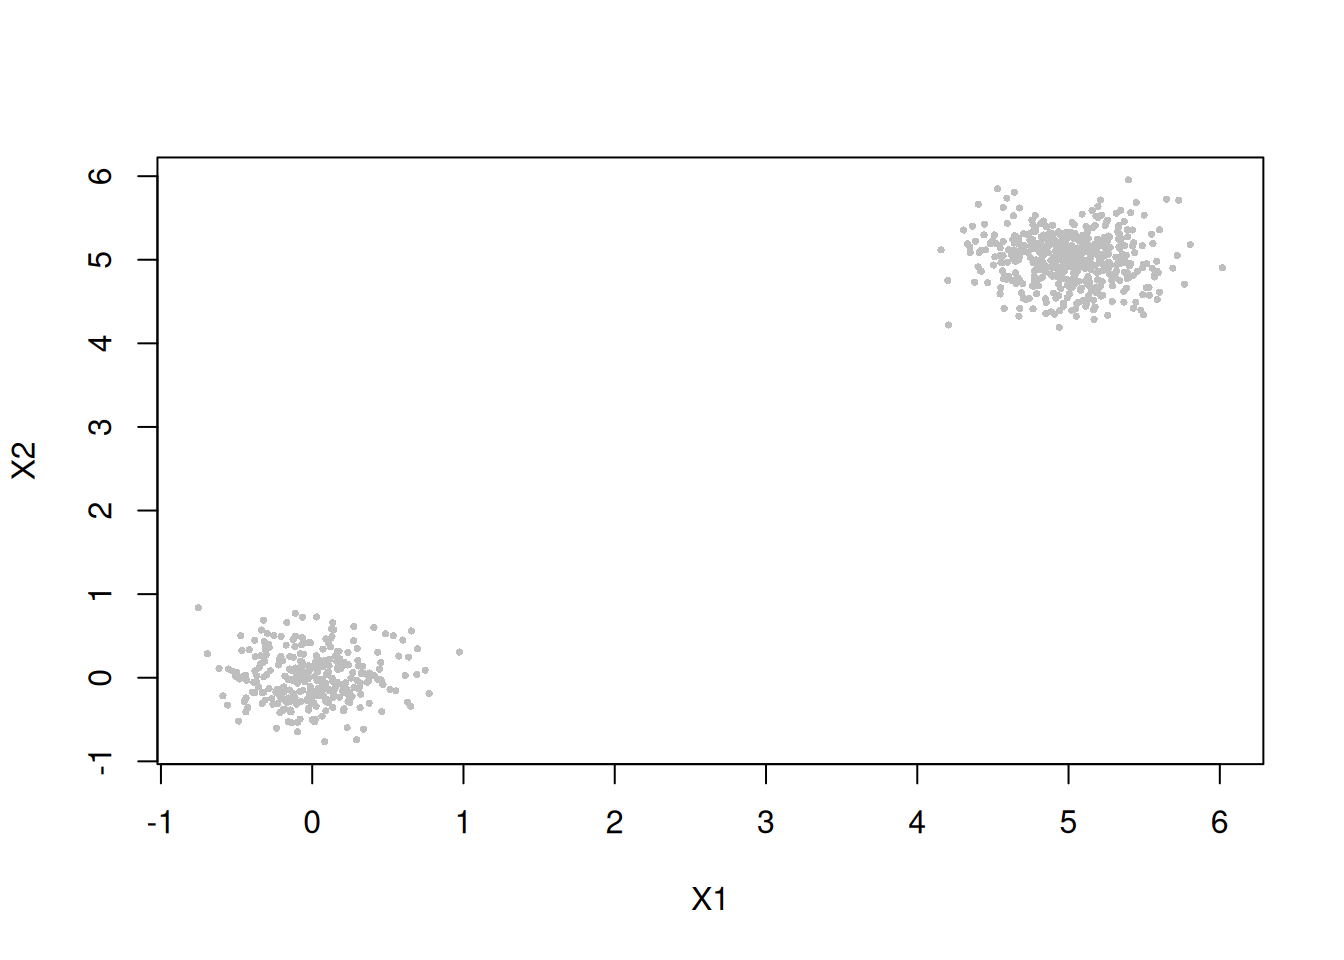
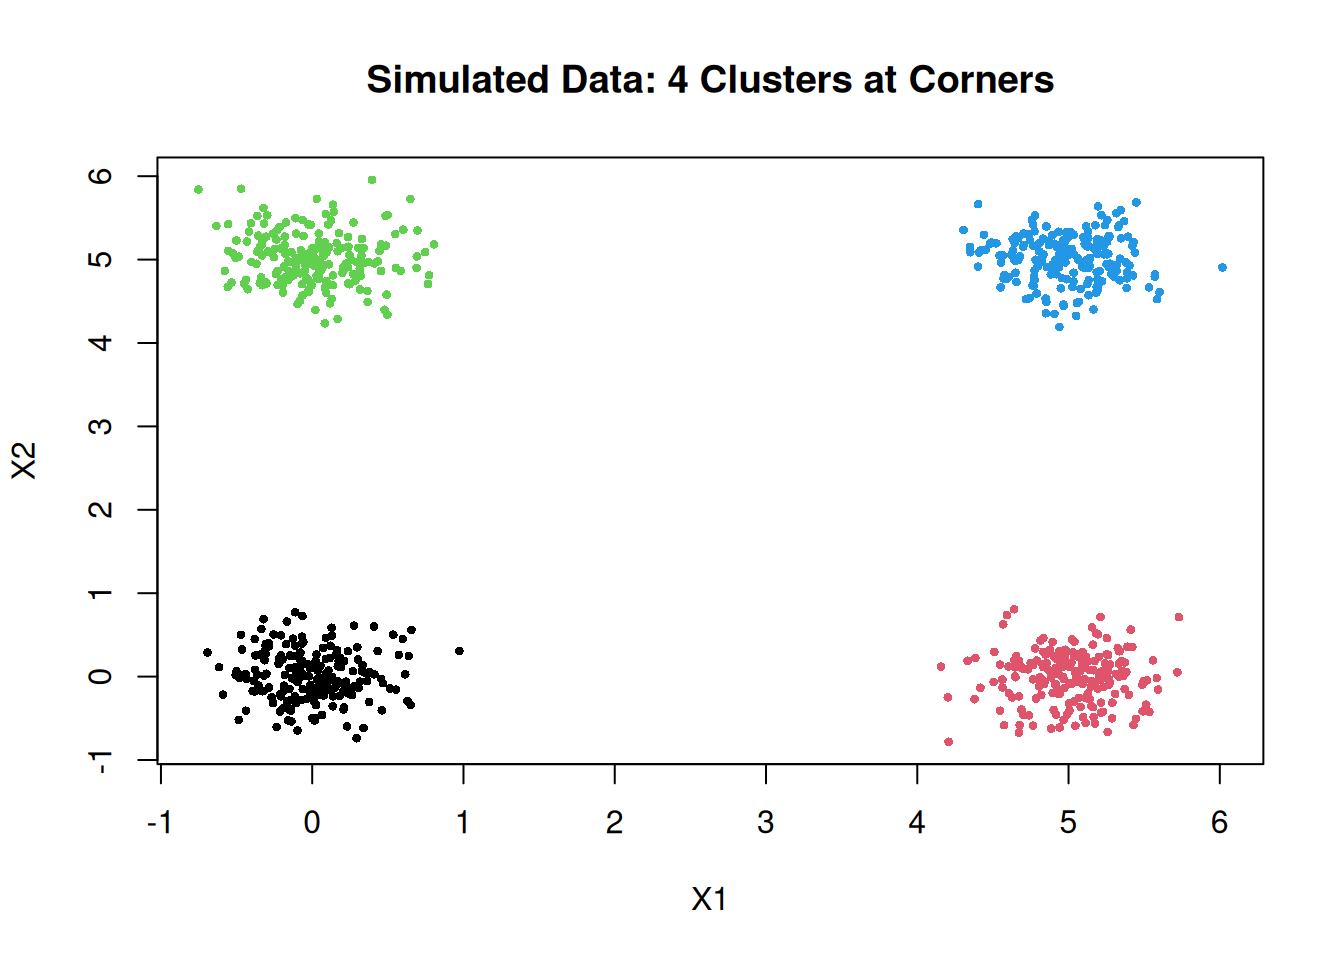
deploy: 8647bd23811dd8675cb206d4ff6f3b1f6faa8fa9

diff --git a/posts/kmeans-permutation/index.html b/posts/kmeans-permutation/index.html
@@ -358,16 +358,41 @@ p_K = \Pr\left( \Delta W_K^{\text{perm}} \geq \Delta W_K^{\text{real}} \right)
 <p><strong>Simulation Example</strong>: Suppose I have 4 clusters in 2D, well separated.</p>
 <div class="cell">
 <div class="sourceCode cell-code" id="cb2"><pre class="sourceCode r code-with-copy"><code class="sourceCode r"><span id="cb2-1"><a href="#cb2-1" aria-hidden="true" tabindex="-1"></a><span class="fu">set.seed</span>(<span class="dv">123</span>)</span>
-<span id="cb2-2"><a href="#cb2-2" aria-hidden="true" tabindex="-1"></a>n <span class="ot">&lt;-</span> <span class="dv">200</span></span>
-<span id="cb2-3"><a href="#cb2-3" aria-hidden="true" tabindex="-1"></a>data.sim <span class="ot">&lt;-</span> <span class="fu">rbind</span>(</span>
-<span id="cb2-4"><a href="#cb2-4" aria-hidden="true" tabindex="-1"></a>  <span class="fu">matrix</span>(<span class="fu">rnorm</span>(n<span class="sc">*</span><span class="dv">2</span>, <span class="at">mean=</span><span class="dv">0</span>, <span class="at">sd=</span><span class="fl">0.3</span>), <span class="at">ncol=</span><span class="dv">2</span>),</span>
-<span id="cb2-5"><a href="#cb2-5" aria-hidden="true" tabindex="-1"></a>  <span class="fu">matrix</span>(<span class="fu">rnorm</span>(n<span class="sc">*</span><span class="dv">2</span>, <span class="at">mean=</span><span class="dv">5</span>, <span class="at">sd=</span><span class="fl">0.3</span>), <span class="at">ncol=</span><span class="dv">2</span>),</span>
-<span id="cb2-6"><a href="#cb2-6" aria-hidden="true" tabindex="-1"></a>  <span class="fu">matrix</span>(<span class="fu">rnorm</span>(n<span class="sc">*</span><span class="dv">2</span>, <span class="at">mean=</span><span class="fu">c</span>(<span class="dv">0</span>,<span class="dv">5</span>), <span class="at">sd=</span><span class="fl">0.3</span>), <span class="at">ncol=</span><span class="dv">2</span>),</span>
-<span id="cb2-7"><a href="#cb2-7" aria-hidden="true" tabindex="-1"></a>  <span class="fu">matrix</span>(<span class="fu">rnorm</span>(n<span class="sc">*</span><span class="dv">2</span>, <span class="at">mean=</span><span class="fu">c</span>(<span class="dv">5</span>,<span class="dv">5</span>), <span class="at">sd=</span><span class="fl">0.3</span>), <span class="at">ncol=</span><span class="dv">2</span>)</span>
-<span id="cb2-8"><a href="#cb2-8" aria-hidden="true" tabindex="-1"></a>)</span>
-<span id="cb2-9"><a href="#cb2-9" aria-hidden="true" tabindex="-1"></a>data.sim <span class="ot">&lt;-</span> <span class="fu">as.data.frame</span>(data.sim)</span>
-<span id="cb2-10"><a href="#cb2-10" aria-hidden="true" tabindex="-1"></a><span class="fu">colnames</span>(data.sim) <span class="ot">&lt;-</span> <span class="fu">c</span>(<span class="st">"X1"</span>,<span class="st">"X2"</span>)</span>
-<span id="cb2-11"><a href="#cb2-11" aria-hidden="true" tabindex="-1"></a><span class="fu">plot</span>(data.sim, <span class="at">col=</span><span class="st">"grey"</span>, <span class="at">pch=</span><span class="dv">16</span>, <span class="at">cex=</span><span class="fl">0.5</span>)</span></code><button title="Copy to Clipboard" class="code-copy-button"><i class="bi"></i></button></pre></div>
+<span id="cb2-2"><a href="#cb2-2" aria-hidden="true" tabindex="-1"></a>n <span class="ot">&lt;-</span> <span class="dv">200</span>  <span class="co"># number of points per cluster</span></span>
+<span id="cb2-3"><a href="#cb2-3" aria-hidden="true" tabindex="-1"></a>sd <span class="ot">&lt;-</span> <span class="fl">0.3</span></span>
+<span id="cb2-4"><a href="#cb2-4" aria-hidden="true" tabindex="-1"></a></span>
+<span id="cb2-5"><a href="#cb2-5" aria-hidden="true" tabindex="-1"></a><span class="co"># Create each cluster with explicit X and Y components</span></span>
+<span id="cb2-6"><a href="#cb2-6" aria-hidden="true" tabindex="-1"></a>cluster1 <span class="ot">&lt;-</span> <span class="fu">data.frame</span>(</span>
+<span id="cb2-7"><a href="#cb2-7" aria-hidden="true" tabindex="-1"></a>  <span class="at">X1 =</span> <span class="fu">rnorm</span>(n, <span class="at">mean =</span> <span class="dv">0</span>, <span class="at">sd =</span> sd),</span>
+<span id="cb2-8"><a href="#cb2-8" aria-hidden="true" tabindex="-1"></a>  <span class="at">X2 =</span> <span class="fu">rnorm</span>(n, <span class="at">mean =</span> <span class="dv">0</span>, <span class="at">sd =</span> sd),</span>
+<span id="cb2-9"><a href="#cb2-9" aria-hidden="true" tabindex="-1"></a>  <span class="at">label =</span> <span class="dv">1</span></span>
+<span id="cb2-10"><a href="#cb2-10" aria-hidden="true" tabindex="-1"></a>)</span>
+<span id="cb2-11"><a href="#cb2-11" aria-hidden="true" tabindex="-1"></a>cluster2 <span class="ot">&lt;-</span> <span class="fu">data.frame</span>(</span>
+<span id="cb2-12"><a href="#cb2-12" aria-hidden="true" tabindex="-1"></a>  <span class="at">X1 =</span> <span class="fu">rnorm</span>(n, <span class="at">mean =</span> <span class="dv">5</span>, <span class="at">sd =</span> sd),</span>
+<span id="cb2-13"><a href="#cb2-13" aria-hidden="true" tabindex="-1"></a>  <span class="at">X2 =</span> <span class="fu">rnorm</span>(n, <span class="at">mean =</span> <span class="dv">0</span>, <span class="at">sd =</span> sd),</span>
+<span id="cb2-14"><a href="#cb2-14" aria-hidden="true" tabindex="-1"></a>  <span class="at">label =</span> <span class="dv">2</span></span>
+<span id="cb2-15"><a href="#cb2-15" aria-hidden="true" tabindex="-1"></a>)</span>
+<span id="cb2-16"><a href="#cb2-16" aria-hidden="true" tabindex="-1"></a>cluster3 <span class="ot">&lt;-</span> <span class="fu">data.frame</span>(</span>
+<span id="cb2-17"><a href="#cb2-17" aria-hidden="true" tabindex="-1"></a>  <span class="at">X1 =</span> <span class="fu">rnorm</span>(n, <span class="at">mean =</span> <span class="dv">0</span>, <span class="at">sd =</span> sd),</span>
+<span id="cb2-18"><a href="#cb2-18" aria-hidden="true" tabindex="-1"></a>  <span class="at">X2 =</span> <span class="fu">rnorm</span>(n, <span class="at">mean =</span> <span class="dv">5</span>, <span class="at">sd =</span> sd),</span>
+<span id="cb2-19"><a href="#cb2-19" aria-hidden="true" tabindex="-1"></a>  <span class="at">label =</span> <span class="dv">3</span></span>
+<span id="cb2-20"><a href="#cb2-20" aria-hidden="true" tabindex="-1"></a>)</span>
+<span id="cb2-21"><a href="#cb2-21" aria-hidden="true" tabindex="-1"></a>cluster4 <span class="ot">&lt;-</span> <span class="fu">data.frame</span>(</span>
+<span id="cb2-22"><a href="#cb2-22" aria-hidden="true" tabindex="-1"></a>  <span class="at">X1 =</span> <span class="fu">rnorm</span>(n, <span class="at">mean =</span> <span class="dv">5</span>, <span class="at">sd =</span> sd),</span>
+<span id="cb2-23"><a href="#cb2-23" aria-hidden="true" tabindex="-1"></a>  <span class="at">X2 =</span> <span class="fu">rnorm</span>(n, <span class="at">mean =</span> <span class="dv">5</span>, <span class="at">sd =</span> sd),</span>
+<span id="cb2-24"><a href="#cb2-24" aria-hidden="true" tabindex="-1"></a>  <span class="at">label =</span> <span class="dv">4</span></span>
+<span id="cb2-25"><a href="#cb2-25" aria-hidden="true" tabindex="-1"></a>)</span>
+<span id="cb2-26"><a href="#cb2-26" aria-hidden="true" tabindex="-1"></a></span>
+<span id="cb2-27"><a href="#cb2-27" aria-hidden="true" tabindex="-1"></a><span class="co"># Combine all clusters</span></span>
+<span id="cb2-28"><a href="#cb2-28" aria-hidden="true" tabindex="-1"></a>data.sim <span class="ot">&lt;-</span> <span class="fu">rbind</span>(cluster1, cluster2, cluster3, cluster4)</span>
+<span id="cb2-29"><a href="#cb2-29" aria-hidden="true" tabindex="-1"></a></span>
+<span id="cb2-30"><a href="#cb2-30" aria-hidden="true" tabindex="-1"></a><span class="co"># Plot with cluster labels</span></span>
+<span id="cb2-31"><a href="#cb2-31" aria-hidden="true" tabindex="-1"></a><span class="fu">plot</span>(</span>
+<span id="cb2-32"><a href="#cb2-32" aria-hidden="true" tabindex="-1"></a>  data.sim<span class="sc">$</span>X1, data.sim<span class="sc">$</span>X2, <span class="at">col =</span> data.sim<span class="sc">$</span>label,</span>
+<span id="cb2-33"><a href="#cb2-33" aria-hidden="true" tabindex="-1"></a>  <span class="at">pch =</span> <span class="dv">16</span>, <span class="at">cex =</span> <span class="fl">0.6</span>,</span>
+<span id="cb2-34"><a href="#cb2-34" aria-hidden="true" tabindex="-1"></a>  <span class="at">main =</span> <span class="st">"Simulated Data: 4 Clusters at Corners"</span>,</span>
+<span id="cb2-35"><a href="#cb2-35" aria-hidden="true" tabindex="-1"></a>  <span class="at">xlab =</span> <span class="st">"X1"</span>, <span class="at">ylab =</span> <span class="st">"X2"</span></span>
+<span id="cb2-36"><a href="#cb2-36" aria-hidden="true" tabindex="-1"></a>)</span></code><button title="Copy to Clipboard" class="code-copy-button"><i class="bi"></i></button></pre></div>
 <div class="cell-output-display">
 <div>
 <figure class="figure">
@@ -375,15 +400,16 @@ p_K = \Pr\left( \Delta W_K^{\text{perm}} \geq \Delta W_K^{\text{real}} \right)
 </figure>
 </div>
 </div>
+<div class="sourceCode cell-code" id="cb3"><pre class="sourceCode r code-with-copy"><code class="sourceCode r"><span id="cb3-1"><a href="#cb3-1" aria-hidden="true" tabindex="-1"></a><span class="co">#legend("topright", legend = paste("Cluster", 1:4), col = 1:4, pch = 16)</span></span></code><button title="Copy to Clipboard" class="code-copy-button"><i class="bi"></i></button></pre></div>
 </div>
 <p>I know there are 4 clusters centered at (0,0), (5,0), (0,5), (5,5). Now apply the test:</p>
 <div class="cell">
-<div class="sourceCode cell-code" id="cb3"><pre class="sourceCode r code-with-copy"><code class="sourceCode r"><span id="cb3-1"><a href="#cb3-1" aria-hidden="true" tabindex="-1"></a>result <span class="ot">&lt;-</span> <span class="fu">permute_k_test</span>(data.sim, <span class="at">K.max=</span><span class="dv">8</span>, <span class="at">B=</span><span class="dv">50</span>, <span class="at">alpha=</span><span class="fl">0.01</span>)</span></code><button title="Copy to Clipboard" class="code-copy-button"><i class="bi"></i></button></pre></div>
+<div class="sourceCode cell-code" id="cb4"><pre class="sourceCode r code-with-copy"><code class="sourceCode r"><span id="cb4-1"><a href="#cb4-1" aria-hidden="true" tabindex="-1"></a>result <span class="ot">&lt;-</span> <span class="fu">permute_k_test</span>(data.sim, <span class="at">K.max=</span><span class="dv">8</span>, <span class="at">B=</span><span class="dv">50</span>, <span class="at">alpha=</span><span class="fl">0.01</span>)</span></code><button title="Copy to Clipboard" class="code-copy-button"><i class="bi"></i></button></pre></div>
 <div class="cell-output cell-output-stdout">
-<pre><code>K = 2 : WCSS = 139.7064 , prev WCSS = 9506.497 , Δ = 9366.79 , p = 0 
-K = 3 : WCSS = 109.4906 , prev WCSS = 139.7064 , Δ = 30.21584 , p = 0.96 </code></pre>
+<pre><code>K = 2 : WCSS = 5331.209 , prev WCSS = 11159.57 , Δ = 5828.357 , p = 0 
+K = 3 : WCSS = 2719.054 , prev WCSS = 5331.209 , Δ = 2612.155 , p = 0.1 </code></pre>
 </div>
-<div class="sourceCode cell-code" id="cb5"><pre class="sourceCode r code-with-copy"><code class="sourceCode r"><span id="cb5-1"><a href="#cb5-1" aria-hidden="true" tabindex="-1"></a><span class="fu">cat</span>(<span class="st">"Chosen K:"</span>, result, <span class="st">"</span><span class="sc">\n</span><span class="st">"</span>)</span></code><button title="Copy to Clipboard" class="code-copy-button"><i class="bi"></i></button></pre></div>
+<div class="sourceCode cell-code" id="cb6"><pre class="sourceCode r code-with-copy"><code class="sourceCode r"><span id="cb6-1"><a href="#cb6-1" aria-hidden="true" tabindex="-1"></a><span class="fu">cat</span>(<span class="st">"Chosen K:"</span>, result, <span class="st">"</span><span class="sc">\n</span><span class="st">"</span>)</span></code><button title="Copy to Clipboard" class="code-copy-button"><i class="bi"></i></button></pre></div>
 <div class="cell-output cell-output-stdout">
 <pre><code>Chosen K: 2 </code></pre>
 </div>
@@ -393,18 +419,18 @@ K = 3 : WCSS = 109.4906 , prev WCSS = 139.7064 , Δ = 30.21584 , p = 0.96 </code
 <p>So it stopped at K=4 correctly. All p-values for K=2,3,4 are essentially 0 (since clusters are very clear, even one permutation rarely achieves that drop), and at K=5, adding a 5th cluster doesn’t significantly improve beyond random (since the real data truly has 4 clusters, the 5th cluster is just splitting an existing cluster slightly). So the method chose K=4, matching ground truth.</p>
 <p>I should test a scenario with no clusters: e.g.&nbsp;data is just one big blob. In that case, I expect it won’t find any significant increase beyond K=1. If I generate uniform random data:</p>
 <div class="cell">
-<div class="sourceCode cell-code" id="cb7"><pre class="sourceCode r code-with-copy"><code class="sourceCode r"><span id="cb7-1"><a href="#cb7-1" aria-hidden="true" tabindex="-1"></a><span class="fu">set.seed</span>(<span class="dv">456</span>)</span>
-<span id="cb7-2"><a href="#cb7-2" aria-hidden="true" tabindex="-1"></a>data.unif <span class="ot">&lt;-</span> <span class="fu">matrix</span>(<span class="fu">runif</span>(<span class="dv">200</span><span class="sc">*</span><span class="dv">2</span>, <span class="dv">0</span>, <span class="dv">1</span>), <span class="at">ncol=</span><span class="dv">2</span>)</span>
-<span id="cb7-3"><a href="#cb7-3" aria-hidden="true" tabindex="-1"></a>res <span class="ot">&lt;-</span> <span class="fu">permute_k_test</span>(<span class="fu">as.data.frame</span>(data.unif), <span class="at">K.max=</span><span class="dv">5</span>, <span class="at">B=</span><span class="dv">50</span>, <span class="at">alpha=</span><span class="fl">0.05</span>)</span></code><button title="Copy to Clipboard" class="code-copy-button"><i class="bi"></i></button></pre></div>
+<div class="sourceCode cell-code" id="cb8"><pre class="sourceCode r code-with-copy"><code class="sourceCode r"><span id="cb8-1"><a href="#cb8-1" aria-hidden="true" tabindex="-1"></a><span class="fu">set.seed</span>(<span class="dv">456</span>)</span>
+<span id="cb8-2"><a href="#cb8-2" aria-hidden="true" tabindex="-1"></a>data.unif <span class="ot">&lt;-</span> <span class="fu">matrix</span>(<span class="fu">runif</span>(<span class="dv">200</span><span class="sc">*</span><span class="dv">2</span>, <span class="dv">0</span>, <span class="dv">1</span>), <span class="at">ncol=</span><span class="dv">2</span>)</span>
+<span id="cb8-3"><a href="#cb8-3" aria-hidden="true" tabindex="-1"></a>res <span class="ot">&lt;-</span> <span class="fu">permute_k_test</span>(<span class="fu">as.data.frame</span>(data.unif), <span class="at">K.max=</span><span class="dv">5</span>, <span class="at">B=</span><span class="dv">50</span>, <span class="at">alpha=</span><span class="fl">0.05</span>)</span></code><button title="Copy to Clipboard" class="code-copy-button"><i class="bi"></i></button></pre></div>
 <div class="cell-output cell-output-stdout">
 <pre><code>K = 2 : WCSS = 19.99769 , prev WCSS = 34.0721 , Δ = 14.0744 , p = 0.12 </code></pre>
 </div>
-<div class="sourceCode cell-code" id="cb9"><pre class="sourceCode r code-with-copy"><code class="sourceCode r"><span id="cb9-1"><a href="#cb9-1" aria-hidden="true" tabindex="-1"></a><span class="co"># likely res = 1 (no evidence for &gt;1 clusters)</span></span></code><button title="Copy to Clipboard" class="code-copy-button"><i class="bi"></i></button></pre></div>
+<div class="sourceCode cell-code" id="cb10"><pre class="sourceCode r code-with-copy"><code class="sourceCode r"><span id="cb10-1"><a href="#cb10-1" aria-hidden="true" tabindex="-1"></a><span class="co"># likely res = 1 (no evidence for &gt;1 clusters)</span></span></code><button title="Copy to Clipboard" class="code-copy-button"><i class="bi"></i></button></pre></div>
 </div>
 <p>I would likely get something like p (K=2) around 0.5 or higher (no significant drop), so it stops and returns 1. Indeed, no cluster structure.</p>
 <p>Finally, test on a real dataset (like Iris):</p>
 <div class="cell">
-<div class="sourceCode cell-code" id="cb10"><pre class="sourceCode r code-with-copy"><code class="sourceCode r"><span id="cb10-1"><a href="#cb10-1" aria-hidden="true" tabindex="-1"></a>res_iris <span class="ot">&lt;-</span> <span class="fu">permute_k_test</span>(<span class="fu">as.data.frame</span>(iris[, <span class="sc">-</span><span class="dv">5</span>]), <span class="at">K.max=</span><span class="dv">10</span>, <span class="at">B=</span><span class="dv">100</span>, <span class="at">alpha=</span><span class="fl">0.05</span>)</span></code><button title="Copy to Clipboard" class="code-copy-button"><i class="bi"></i></button></pre></div>
+<div class="sourceCode cell-code" id="cb11"><pre class="sourceCode r code-with-copy"><code class="sourceCode r"><span id="cb11-1"><a href="#cb11-1" aria-hidden="true" tabindex="-1"></a>res_iris <span class="ot">&lt;-</span> <span class="fu">permute_k_test</span>(<span class="fu">as.data.frame</span>(iris[, <span class="sc">-</span><span class="dv">5</span>]), <span class="at">K.max=</span><span class="dv">10</span>, <span class="at">B=</span><span class="dv">100</span>, <span class="at">alpha=</span><span class="fl">0.05</span>)</span></code><button title="Copy to Clipboard" class="code-copy-button"><i class="bi"></i></button></pre></div>
 <div class="cell-output cell-output-stdout">
 <pre><code>K = 2 : WCSS = 152.348 , prev WCSS = 681.3706 , Δ = 529.0226 , p = 0 
 K = 3 : WCSS = 78.85144 , prev WCSS = 152.348 , Δ = 73.49651 , p = 0 
